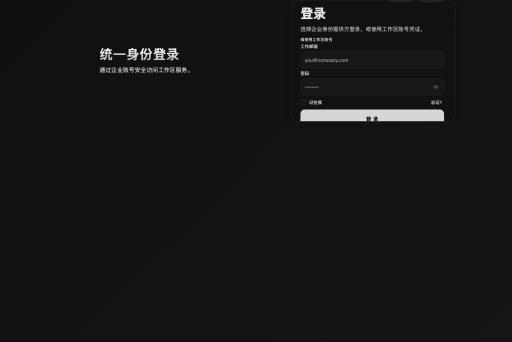
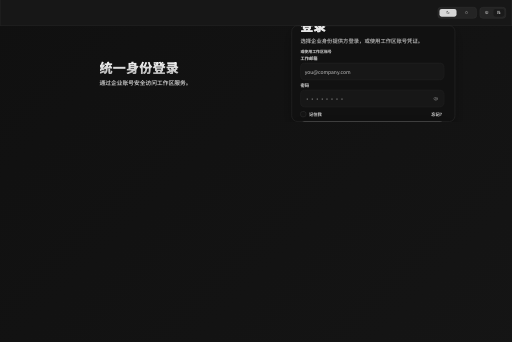
fix(login): move locale and theme toggles to page header
Place language and theme toggles in the login page header and remove duplicate form-header controls.

Adjust auth layout height calculations to account for topbar height and keep viewport fill stable across breakpoints.

Update login prototype e2e assertions and refresh login visual baseline to match the new structure.

diff --git a/frontend/e2e/login-prototype.spec.ts b/frontend/e2e/login-prototype.spec.ts
@@ -74,11 +74,11 @@ test.describe("Login prototype alignment", () => {
     expect(layoutMetrics.transform).not.toBe("none");
   });
 
-  test("login form header theme switch updates route mode", async ({ page }) => {
+  test("login header theme switch updates route mode", async ({ page }) => {
     await mockAnonymousAuth(page);
     await page.goto("/login");
 
-    const header = page.locator(".login-form-header");
+    const header = page.locator(".auth-topbar");
     const darkToggle = header.getByRole("button", { name: "Use dark theme" });
     const lightToggle = header.getByRole("button", { name: "Use light theme" });
 
@@ -90,25 +90,26 @@ test.describe("Login prototype alignment", () => {
     });
 
     await expect(page).toHaveURL(/\/light\/login$/);
-    await expect(page.locator(".login-form-header").getByRole("button", { name: "Use light theme" })).toBeDisabled();
-    await expect(page.locator(".login-form-header").getByRole("button", { name: "Use dark theme" })).toBeEnabled();
+    await expect(page.locator(".auth-topbar").getByRole("button", { name: "Use light theme" })).toBeDisabled();
+    await expect(page.locator(".auth-topbar").getByRole("button", { name: "Use dark theme" })).toBeEnabled();
   });
 
   test("login page keeps theme and locale switches grouped in header without public navigation chrome", async ({ page }) => {
     await mockAnonymousAuth(page);
     await page.goto("/login");
 
-    const header = page.locator(".login-form-header");
-    const headerActions = page.locator(".login-form-header-actions");
+    const header = page.locator(".auth-header");
+    const topbar = page.locator(".auth-topbar");
+    const topbarActions = topbar.locator(".auth-topbar-locale");
     await expect(header).toBeVisible();
-    await expect(headerActions).toBeVisible();
-    await expect(headerActions.locator(".auth-topbar-theme-switch")).toHaveCount(1);
-    await expect(headerActions.locator(".auth-topbar-locale-switch")).toHaveCount(1);
+    await expect(topbar).toBeVisible();
+    await expect(topbarActions).toBeVisible();
+    await expect(topbarActions.locator(".auth-topbar-theme-switch")).toHaveCount(1);
+    await expect(topbarActions.locator(".auth-topbar-locale-switch")).toHaveCount(1);
     await expect(page.locator(".login-form-toolbar")).toHaveCount(0);
-    await expect(header.getByRole("button", { name: "Use English locale" })).toBeVisible();
-    await expect(header.getByRole("button", { name: "Use Chinese locale" })).toBeVisible();
-    await expect(page.locator(".auth-header")).toHaveCount(0);
-    await expect(page.locator(".auth-topbar")).toHaveCount(0);
+    await expect(topbar.getByRole("button", { name: "Use English locale" })).toBeVisible();
+    await expect(topbar.getByRole("button", { name: "Use Chinese locale" })).toBeVisible();
+    await expect(page.locator(".login-form-header-actions")).toHaveCount(0);
     await expect(page.locator(".auth-topbar-brand")).toHaveCount(0);
     await expect(page.locator(".login-form-brand")).toBeVisible();
     await expect(page.locator(".login-form-brand-logo")).toHaveAttribute("src", "/brand/skillsindex-logo.svg");
@@ -268,21 +269,23 @@ test.describe("Login desktop shell behavior", () => {
     await mockAnonymousAuth(page);
     await page.goto("/login");
     await expect(page.locator(".auth-shell.auth-shell-prototype")).toBeVisible();
-    await expect(page.locator(".auth-topbar")).toHaveCount(0);
+    await expect(page.locator(".auth-topbar")).toHaveCount(1);
     await expect(page.locator(".auth-layout")).toBeVisible();
 
     const layoutMetrics = await page.evaluate(() => {
       const stage = document.querySelector(".login-page-stage");
       const shell = document.querySelector(".auth-shell.auth-shell-prototype");
+      const topbar = document.querySelector(".auth-topbar");
       const layout = document.querySelector(".auth-layout");
       const formPanel = document.querySelector(".login-form-panel");
       const visualPanel = document.querySelector(".login-visual-panel");
-      if (!stage || !shell || !layout || !formPanel || !visualPanel) {
+      if (!stage || !shell || !topbar || !layout || !formPanel || !visualPanel) {
         return null;
       }
 
       window.scrollTo(0, document.documentElement.scrollHeight);
       const stageRect = stage.getBoundingClientRect();
+      const topbarRect = topbar.getBoundingClientRect();
       const layoutRect = layout.getBoundingClientRect();
       const shellStyles = window.getComputedStyle(shell);
       const formPanelStyles = window.getComputedStyle(formPanel);
@@ -294,6 +297,7 @@ test.describe("Login desktop shell behavior", () => {
         layoutRightGap: stageRect.right - layoutRect.right,
         layoutTopGap: layoutRect.top - stageRect.top,
         layoutBottomGap: stageRect.bottom - layoutRect.bottom,
+        topbarHeight: topbarRect.height,
         shellPaddingBottom: shellStyles.paddingBottom,
         formPanelRadius: formPanelStyles.borderTopLeftRadius,
         visualPanelRadius: visualPanelStyles.borderTopLeftRadius,
@@ -311,7 +315,8 @@ test.describe("Login desktop shell behavior", () => {
     expect(layoutMetrics.pageScrollable).toBe(false);
     expect(Math.abs(layoutMetrics.layoutLeftGap)).toBeLessThanOrEqual(1);
     expect(Math.abs(layoutMetrics.layoutRightGap)).toBeLessThanOrEqual(1);
-    expect(Math.abs(layoutMetrics.layoutTopGap)).toBeLessThanOrEqual(1);
+    expect(layoutMetrics.topbarHeight).toBeGreaterThan(0);
+    expect(Math.abs(layoutMetrics.layoutTopGap - layoutMetrics.topbarHeight)).toBeLessThanOrEqual(1);
     expect(Math.abs(layoutMetrics.layoutBottomGap)).toBeLessThanOrEqual(1);
   });
 });

diff --git a/frontend/src/pages/LoginPage.tsx b/frontend/src/pages/LoginPage.tsx
@@ -226,6 +226,54 @@ export default function LoginPage({
   return (
     <div className={`login-page-stage${isVisualBaselineViewport ? " is-visual-baseline" : ""}`} style={stageStyle}>
       <div className={`auth-shell auth-shell-prototype${isVisualBaselineViewport ? " is-visual-baseline" : ""}`} style={shellStyle}>
+        <header className="auth-header">
+          <div className="auth-topbar">
+            <div className="auth-topbar-locale">
+              <div className="auth-topbar-theme-switch" role="group" aria-label="Theme switch">
+                <button
+                  type="button"
+                  className={`is-theme-toggle${activeThemeMode === "dark" ? " is-active" : ""}`}
+                  onClick={() => handleThemeModeSwitch("dark")}
+                  disabled={activeThemeMode === "dark"}
+                  aria-label="Use dark theme"
+                  title="Dark theme"
+                >
+                  <MoonOutlined />
+                </button>
+                <button
+                  type="button"
+                  className={`is-theme-toggle${activeThemeMode === "light" ? " is-active" : ""}`}
+                  onClick={() => handleThemeModeSwitch("light")}
+                  disabled={activeThemeMode === "light"}
+                  aria-label="Use light theme"
+                  title="Light theme"
+                >
+                  <SunOutlined />
+                </button>
+              </div>
+              <div className="auth-topbar-locale-switch" role="group" aria-label="Locale switch">
+                <button
+                  type="button"
+                  className={locale === "en" ? "is-active" : ""}
+                  onClick={() => onLocaleChange("en")}
+                  aria-label="Use English locale"
+                  title="English"
+                >
+                  <GlobalOutlined />
+                </button>
+                <button
+                  type="button"
+                  className={locale === "zh" ? "is-active" : ""}
+                  onClick={() => onLocaleChange("zh")}
+                  aria-label="Use Chinese locale"
+                  title="Chinese"
+                >
+                  <TranslationOutlined />
+                </button>
+              </div>
+            </div>
+          </div>
+        </header>
         <section className="auth-layout">
           <LoginInfoPanel config={resolvedInfoPanelConfig} />
 
@@ -236,50 +284,6 @@ export default function LoginPage({
                   <img className="login-form-brand-logo" src={resolvedBrandConfig.logoSrc} alt="" />
                 </span>
                 <span className="login-form-brand-text">{resolvedBrandConfig.brandText}</span>
-              </div>
-              <div className="login-form-header-actions" aria-label="Header actions">
-                <div className="auth-topbar-theme-switch" role="group" aria-label="Theme switch">
-                  <button
-                    type="button"
-                    className={`is-theme-toggle${activeThemeMode === "dark" ? " is-active" : ""}`}
-                    onClick={() => handleThemeModeSwitch("dark")}
-                    disabled={activeThemeMode === "dark"}
-                    aria-label="Use dark theme"
-                    title="Dark theme"
-                  >
-                    <MoonOutlined />
-                  </button>
-                  <button
-                    type="button"
-                    className={`is-theme-toggle${activeThemeMode === "light" ? " is-active" : ""}`}
-                    onClick={() => handleThemeModeSwitch("light")}
-                    disabled={activeThemeMode === "light"}
-                    aria-label="Use light theme"
-                    title="Light theme"
-                  >
-                    <SunOutlined />
-                  </button>
-                </div>
-                <div className="auth-topbar-locale-switch" role="group" aria-label="Locale switch">
-                  <button
-                    type="button"
-                    className={locale === "en" ? "is-active" : ""}
-                    onClick={() => onLocaleChange("en")}
-                    aria-label="Use English locale"
-                    title="English"
-                  >
-                    <GlobalOutlined />
-                  </button>
-                  <button
-                    type="button"
-                    className={locale === "zh" ? "is-active" : ""}
-                    onClick={() => onLocaleChange("zh")}
-                    aria-label="Use Chinese locale"
-                    title="Chinese"
-                  >
-                    <TranslationOutlined />
-                  </button>
-                </div>
               </div>
             </header>
             <h2>{text.signIn}</h2>

diff --git a/frontend/src/styles/globalStyles.login.theme.ts b/frontend/src/styles/globalStyles.login.theme.ts
@@ -189,6 +189,7 @@ export const globalLoginStylesTheme = `
   display: inline-flex;
   align-items: center;
   gap: 8px;
+  margin-left: auto;
 }
 
 .auth-topbar-theme-switch,
@@ -271,8 +272,8 @@ export const globalLoginStylesTheme = `
 .auth-layout {
   position: relative;
   width: 100%;
-  min-height: 100dvh;
-  height: 100dvh;
+  min-height: calc(100dvh - var(--login-topbar-height));
+  height: calc(100dvh - var(--login-topbar-height));
   margin: 0;
   padding: 0;
   display: grid;
@@ -284,8 +285,8 @@ export const globalLoginStylesTheme = `
 
 .auth-shell.auth-shell-prototype:not(.is-visual-baseline) .auth-layout {
   width: 100%;
-  min-height: 100dvh;
-  height: 100dvh;
+  min-height: calc(100dvh - var(--login-topbar-height));
+  height: calc(100dvh - var(--login-topbar-height));
   grid-template-columns: minmax(0, 1fr) minmax(460px, 520px);
   align-items: stretch;
   justify-content: stretch;

diff --git a/frontend/src/styles/globalStyles.login.responsive.ts b/frontend/src/styles/globalStyles.login.responsive.ts
@@ -39,7 +39,7 @@ export const globalLoginStylesResponsive = `
 
   .auth-shell.auth-shell-prototype:not(.is-visual-baseline) .auth-layout {
     width: 100%;
-    min-height: 100dvh;
+    min-height: calc(100dvh - var(--login-topbar-height));
     height: auto;
     padding: 0;
     grid-template-columns: 1fr;
@@ -81,7 +81,7 @@ export const globalLoginStylesResponsive = `
 
   .auth-shell.auth-shell-prototype:not(.is-visual-baseline) .auth-layout {
     width: 100%;
-    min-height: 100dvh;
+    min-height: calc(100dvh - var(--login-topbar-height));
     padding: 0;
     gap: 0;
   }
